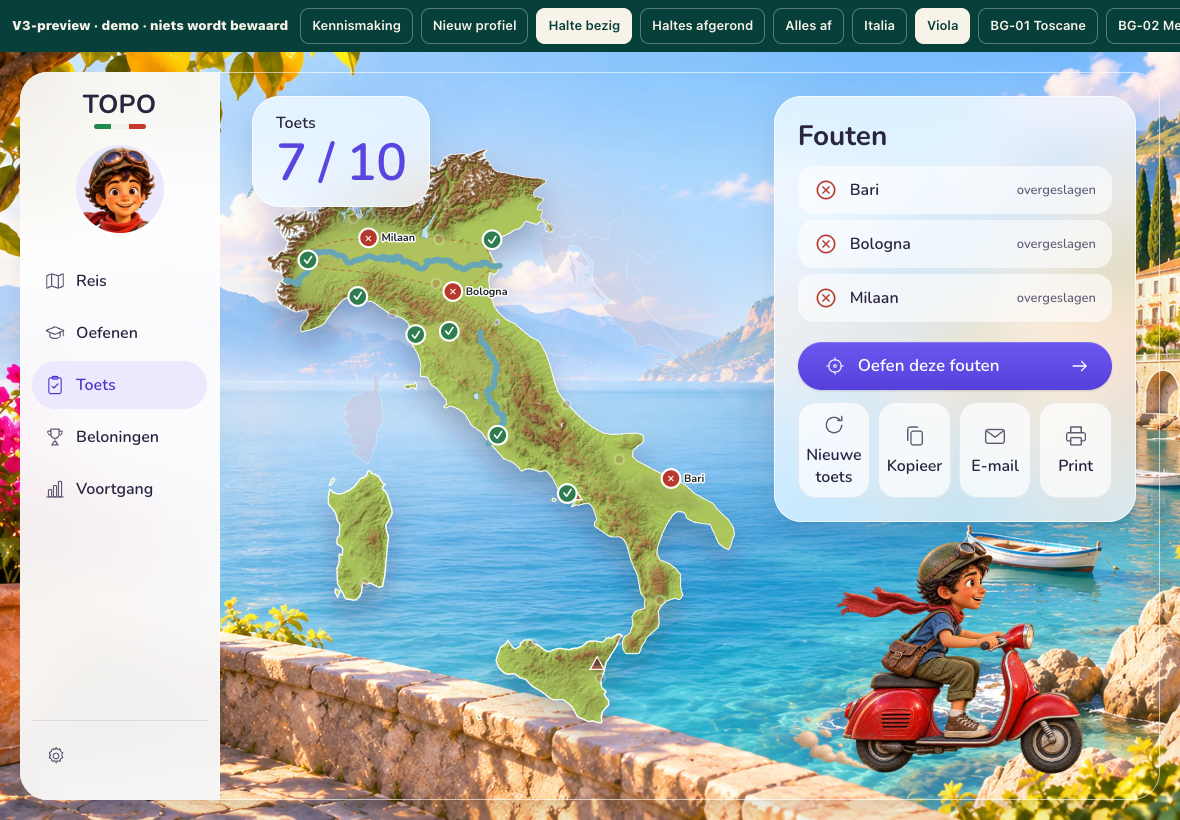
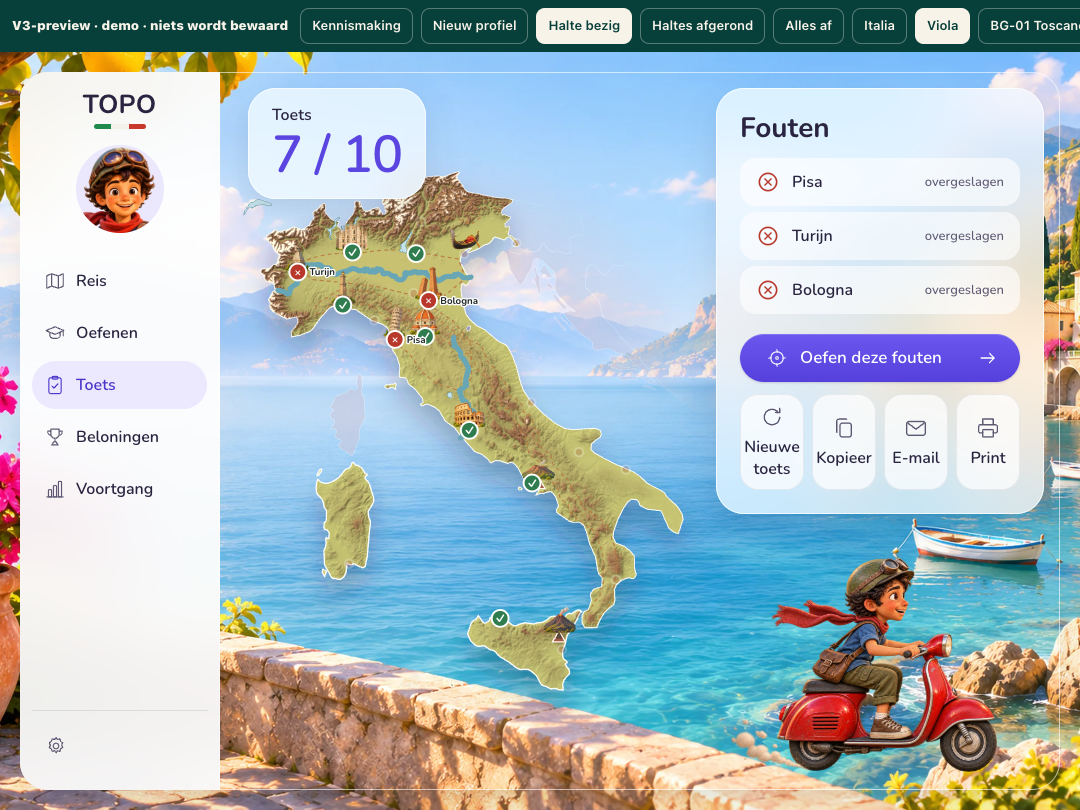
fix(v3): voeg warme reliëfpresentatie en tien echte plaatsankers toe (ronde 3 punt 20)

diff --git a/scripts/v3/landmarks.js b/scripts/v3/landmarks.js
@@ -1,0 +1,25 @@
+/* Geographic presentation: data anchors and raster height are never moved or rewritten. */
+window.TopoV3Landmarks=function(svg,k){
+ 'use strict';
+ const art=window.TOPO_V3_ART?.landmarks;
+ if(!art||!svg.matches('.v3MapStage .v3Map,.v3ToetsMap'))return;
+ const NS='http://www.w3.org/2000/svg',make=(tag,attrs)=>{const n=document.createElementNS(NS,tag);for(const [key,value] of Object.entries(attrs))n.setAttribute(key,String(value));return n;};
+ svg.classList.add('v3LandmarkMap');
+ // Compose the existing depth transform with a gentle warm, less green palette. Only the raster is filtered.
+ const depth=svg.querySelector('filter[id$="reliefDepth"]');
+ if(depth&&!svg.querySelector('filter[id$="warmRelief"]')){
+  const warm=depth.cloneNode(true);warm.id=depth.id.replace('reliefDepth','warmRelief');
+  warm.append(make('feColorMatrix',{type:'saturate',values:.65}));
+  const temperature=make('feComponentTransfer',{});
+  for(const [tag,slope,intercept] of [['R',1.08,.035],['G',1,.015],['B',.88,.025]])temperature.append(make('feFunc'+tag,{type:'linear',slope,intercept}));
+  warm.append(temperature);depth.after(warm);svg.querySelector('.atlasTerrain')?.setAttribute('filter','url(#'+warm.id+')');
+ }
+ let g=svg.querySelector('.v3Landmarks');if(!g){g=make('g',{class:'v3Landmarks','aria-hidden':'true','pointer-events':'none'});svg.insertBefore(g,svg.querySelector('.v3Marks'));}
+ g.replaceChildren();const cw=art.width/art.columns,ch=art.height/art.rows;
+ for(const item of art.items){
+  const anchor=ITEMS.find(i=>i.id===item.anchor);if(!anchor)continue;
+  const node=make('g',{'data-landmark':item.id,'data-anchor':anchor.id,transform:'translate('+anchor.px+' '+anchor.py+') scale('+k+')'});
+  const cell=make('svg',{x:-17,y:-34,width:34,height:34,viewBox:[item.cell%art.columns*cw,Math.floor(item.cell/art.columns)*ch,cw,ch].join(' '),overflow:'hidden',preserveAspectRatio:'xMidYMax meet'});
+  cell.append(make('image',{href:art.src,width:art.width,height:art.height}));node.append(cell);g.append(node);
+ }
+};

diff --git a/scripts/v3/reis.js b/scripts/v3/reis.js
@@ -181,7 +181,7 @@
      if(fr)for(const n of [fr,mk])for(const [a,v] of [['x',bx],['y',by],['width',bw],['height',bh]])n.setAttribute(a,v);
      // The land's drop shadow in screen px (afwerking 10-11: 0 18px 24px rgba(42,36,64,.28)), in map units.
      const ds=svg.querySelector('filter[id$="isleShadow"] feDropShadow');if(ds){ds.setAttribute('dy',(18*k).toFixed(1));ds.setAttribute('stdDeviation',(12*k).toFixed(1));}
-     drawPins(svg,k);}return;}
+     drawPins(svg,k);window.TopoV3Landmarks?.(svg,k);}return;}
    const pad=Math.max(x1-x0,y1-y0)*MARGIN;x0=Math.max(0,x0-pad);y0=Math.max(0,y0-pad);x1=Math.min(CANVAS.w,x1+pad);y1=Math.min(CANVAS.h,y1+pad);
    // Match the stage aspect ratio by growing the shorter side, centred and clamped to the canvas.
    // Measure the free stage (any size set by an earlier fit is released first).
@@ -196,7 +196,7 @@
    if(aspect&&Math.abs(vb-aspect)>.01){if(vb<aspect)svg.style.width=Math.round(box.height*vb)+'px';else svg.style.height=Math.round(box.width/vb)+'px';}
    // The neighbours' fade follows the frame; pins keep their on-screen size (map units per px).
    const fr=svg.querySelector('.v3FadeRect');if(fr){fr.setAttribute('x',x0);fr.setAttribute('y',y0);fr.setAttribute('width',x1-x0);fr.setAttribute('height',y1-y0);}
-   const r2=svg.getBoundingClientRect();if(r2.width&&r2.height)drawPins(svg,Math.max((x1-x0)/r2.width,(y1-y0)/r2.height));
+   const r2=svg.getBoundingClientRect();if(r2.width&&r2.height){const k=Math.max((x1-x0)/r2.width,(y1-y0)/r2.height);drawPins(svg,k);window.TopoV3Landmarks?.(svg,k);}
   }catch{}
  }
  // The stage size changes with the layout (rotation, sidebar width): refit on resize.

diff --git a/scripts/v3/ronde3.css b/scripts/v3/ronde3.css
@@ -97,3 +97,5 @@ body.v3On .vespaRide[data-phase=ride] .rideNino{left:5%;animation:v3RideOut 1.5s
 @media(prefers-reduced-motion:reduce){body.v3On .vespaRide .rideNino{animation:none!important;transition:none!important}body.v3On .vespaRide .rideArrival{animation:v3Ready .16s ease-out!important}}
 
 .v3SettingsSheet .v3BackgroundChoices{grid-template-columns:1fr 1fr;gap:4px 12px}.v3BackgroundChoices h3{grid-column:1/-1}.v3SettingsSheet [data-background][aria-pressed=true]{background:var(--v3-accent-soft);box-shadow:inset 0 0 0 1.5px var(--v3-accent);border-radius:12px}
+
+.v3Map[data-relief=off] .v3Landmarks{display:none}.v3Landmarks{pointer-events:none}.v3Landmarks image{pointer-events:none}

diff --git a/scripts/qa-v3-ronde3.py b/scripts/qa-v3-ronde3.py
@@ -20,6 +20,22 @@ async def check(p,n,touch):
   assert (await p.locator('.v3Switch button').first.bounding_box())['height']>=44
   await act(p,'.v3MapTools [data-relief=true]',touch)
   assert await p.locator('.v3MapStage .v3Map').get_attribute('data-relief')=='on'
+ if n==20:
+  geometry='() => [...document.querySelectorAll("#map [data-id]")].map(n=>[n.dataset.id,n.getAttribute("d"),n.getAttribute("cx"),n.getAttribute("cy")])'
+  before=await p.evaluate(geometry)
+  assert await p.locator('.v3MapStage .v3Landmarks>g').count()==10
+  assert await p.locator('.v3Landmarks>g').evaluate_all('ns=>ns.every(n=>{const a=ITEMS.find(i=>i.id===n.dataset.anchor);return n.getAttribute("transform").startsWith("translate("+a.px+" "+a.py+")")})')
+  assert await p.locator('#map .v3Landmarks').count()==0
+  await act(p,'.v3MapTools [data-relief=false]',touch)
+  assert not await p.locator('.v3MapStage .v3Landmarks').is_visible()
+  await act(p,'.v3MapTools [data-relief=true]',touch)
+  await p.screenshot(path=str(OUT/f'reis-{("ipad-liggend" if touch else "desktop")}.png'))
+  await q.goto(p,'oefenen');assert await p.locator('.v3OefMap .v3Landmarks').count()==0
+  await q.play_toets(p)
+  assert await p.locator('.v3ToetsMap .v3Landmarks>g').count()==10
+  assert await p.evaluate(geometry)==before
+  assert await p.locator('.v3ToetsMap .atlasTerrain').get_attribute('filter')=='url(#v3t-warmRelief)'
+  return 'toetsResult'
  if n==18:
   await act(p,'[data-nav=instellingen]',touch)
   for key in ['bg01','bg02','bg03','auto']:
@@ -158,7 +174,7 @@ async def main(point):
    await p.goto(q.HTML.as_uri()+'#bezig/bg03');await p.wait_for_timeout(650)
    try:screen=await check(p,point,vp!='desktop')
    except Exception:
-    print(await p.locator('.v3MapTools').evaluate('(n)=>{const r=n.getBoundingClientRect();return {rect:r.toJSON(),hits:document.elementsFromPoint(r.x+r.width/2,r.y+r.height/2).slice(0,5).map(x=>x.tagName+"."+x.className)}}'))
+    print('Point',point,'failed at viewport',vp,flush=True)
     raise
    assert not errors,errors
    await p.screenshot(path=str(OUT/f'{screen}-{vp}.png'))
